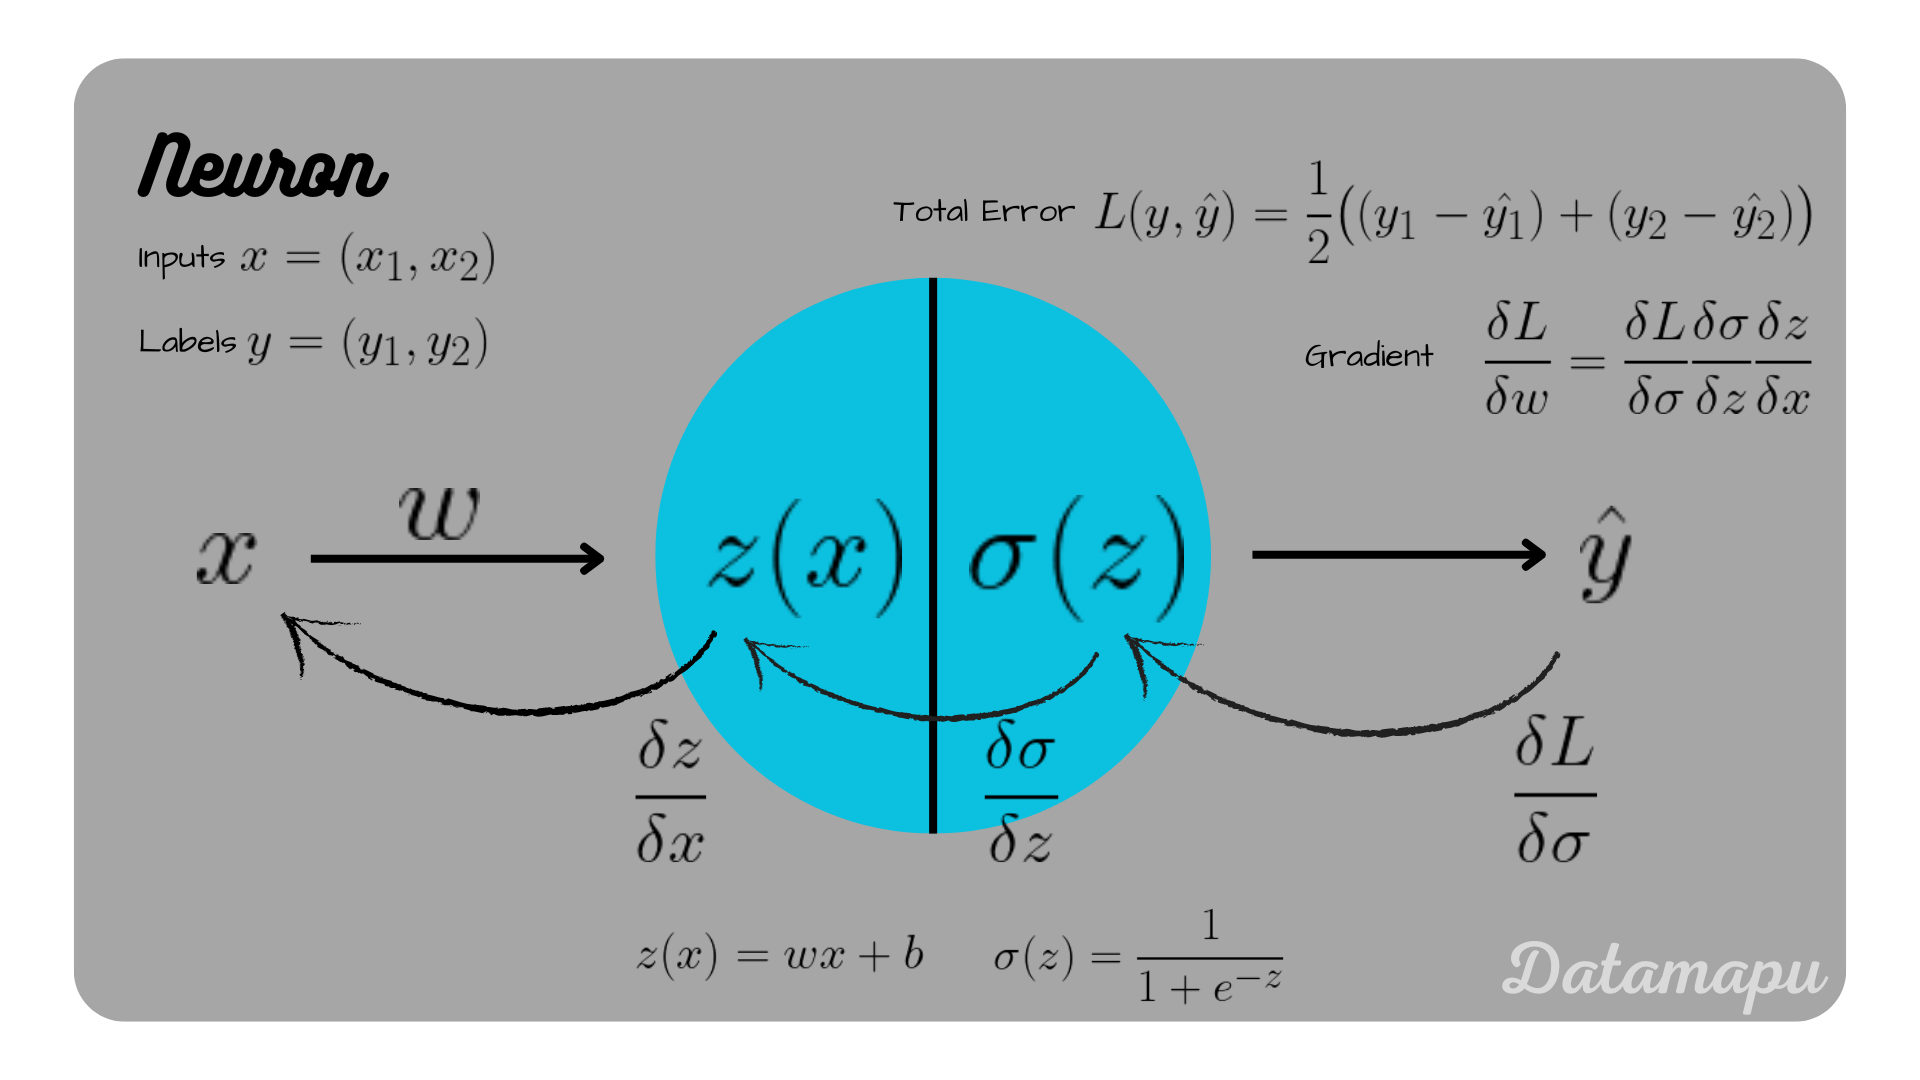
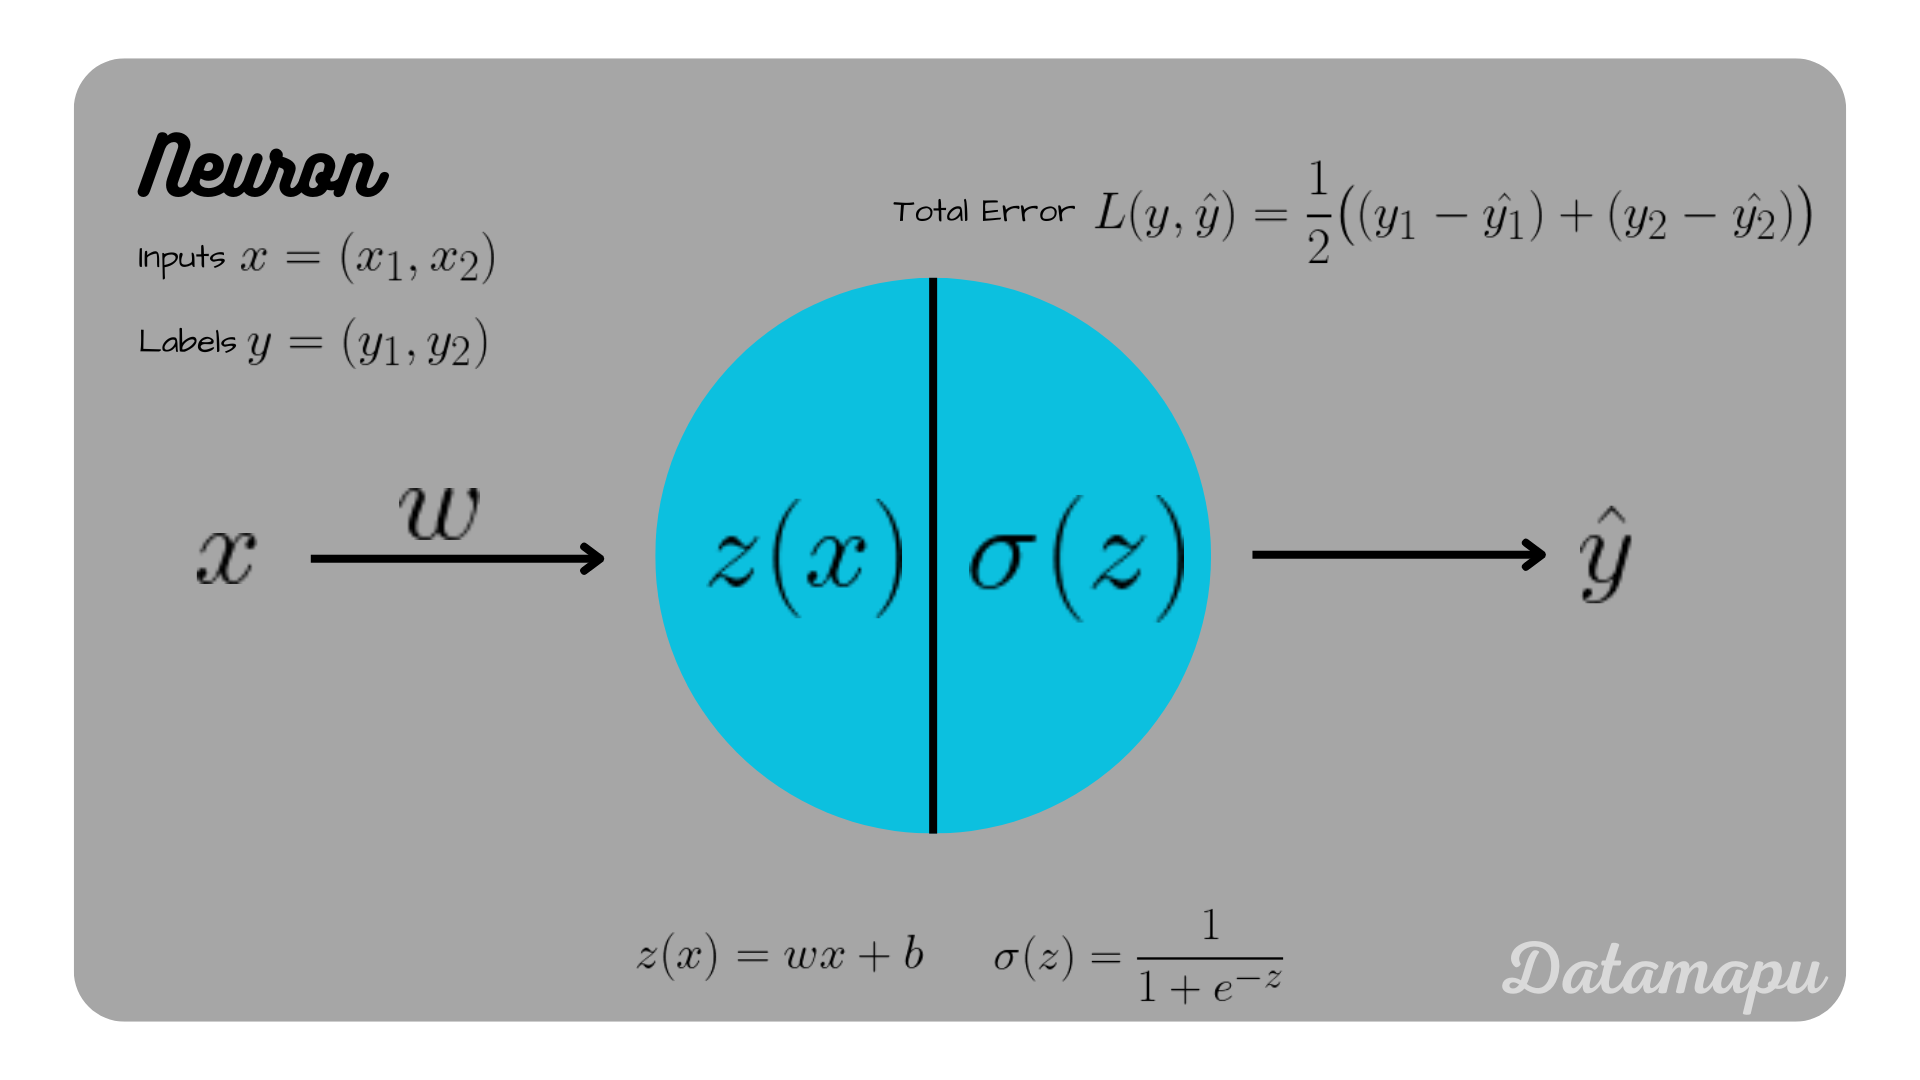
backprop

diff --git a/public/posts/ml_concepts/backpropagation/index.html b/public/posts/ml_concepts/backpropagation/index.html
@@ -40,7 +40,7 @@
 <meta itemprop="name" content="Backpropagation - Step by Step">
 <meta itemprop="description" content="Introduction A neural network consists of a set of parameters - the weights and biases - that define the outcome of the network, that is the predictions. When training a neural network we aim to adjust these weights and biases such that the predictions improve. In order to achieve that Backpropagation is used. In this post we discuss how backpropagation works, and explain it in detail for different examples. We additionally show the general formulation, but without going into details."><meta itemprop="datePublished" content="2024-03-20T22:49:06-03:00" />
 <meta itemprop="dateModified" content="2024-03-20T22:49:06-03:00" />
-<meta itemprop="wordCount" content="684"><meta itemprop="image" content="http://localhost:1313/images/backpropagation/" />
+<meta itemprop="wordCount" content="694"><meta itemprop="image" content="http://localhost:1313/images/backpropagation/" />
 <meta itemprop="keywords" content="Data Science,Machine Learning,Artificial Intelligence," /><meta name="twitter:card" content="summary_large_image" />
 <meta name="twitter:image" content="http://localhost:1313/images/backpropagation/" /><meta name="twitter:title" content="Backpropagation - Step by Step"/>
 <meta name="twitter:description" content="Introduction A neural network consists of a set of parameters - the weights and biases - that define the outcome of the network, that is the predictions. When training a neural network we aim to adjust these weights and biases such that the predictions improve. In order to achieve that Backpropagation is used. In this post we discuss how backpropagation works, and explain it in detail for different examples. We additionally show the general formulation, but without going into details."/>
@@ -198,7 +198,7 @@ MathJax = {
       
       
         <span class="f6 mv4 dib tracked"> - 4 minutes read </span>
-        <span class="f6 mv4 dib tracked"> - 684 words </span>
+        <span class="f6 mv4 dib tracked"> - 694 words </span>
       
     </header>
     <div class="nested-copy-line-height lh-copy serif f4 nested-links mid-gray pr4-l w-two-thirds-l"><h2 id="introduction">Introduction</h2>
@@ -220,13 +220,15 @@ $$y_1 = 1.5, y_2 = 2$$</p>
 <h2 id="example-1-neuron">Example: 1 Neuron</h2>
 <p>To illustrate how backpropagation works, we start with the most simple neural network, which only constists of one single neuron.</p>
 <p><img src="/images/backpropagation/one_neuron.png" alt="one_neuron">
-<em>Illustration of Backpropagation in a Neural Network consisting of a single Neuron.</em></p>
+<em>Illustration of a Neural Network consisting of a single Neuron.</em></p>
 <p>For the following calculations, we assume the initial weight to be $w = 0.3$ and the initial bias to be $b = 0.1$. Further the learning rate is set to$\alpha = 0.1$. This values are chosen arbitrary for illustration purposes.</p>
 <p>We can calculate the forward pass through this network as</p>
 <p>$$\hat{y} = \sigma(wx + b),$$
 $$\hat{y} = \frac{1}{1 + e^{-(wx+b)}}$$.</p>
 <p>Using the dataset defined above, we get for $x_1 = 0.5$</p>
 <p>$$\hat{y}_1 = \frac{1}{1 + e^{-0.3\cdot 0.5 - 0.1}} = \frac{1}{1 + e^{-0.05}} = \frac{1}{1 + e^{0.05}} \approx 0.51$$</p>
+<p><img src="/images/backpropagation/one_neuron_back.png" alt="one_neuron">
+<em>Illustration of Backpropagation in a Neural Network consisting of a single Neuron.</em></p>
 <h2 id="example-2-neurons">Example: 2 Neurons</h2>
 <ul>
 <li>in a row</li>

diff --git a/content/posts/ml_concepts/backpropagation.md b/content/posts/ml_concepts/backpropagation.md
@@ -44,7 +44,7 @@ with $y = (y_1, y_2)$ the labels and $\hat{y} = (\hat{y}_1, \hat{y}_2)$ the pred
 To illustrate how backpropagation works, we start with the most simple neural network, which only constists of one single neuron. 
 
 ![one_neuron](/images/backpropagation/one_neuron.png)
-*Illustration of Backpropagation in a Neural Network consisting of a single Neuron.*
+*Illustration of a Neural Network consisting of a single Neuron.*
 
 For the following calculations, we assume the initial weight to be $w = 0.3$ and the initial bias to be $b = 0.1$. Further the learning rate is set to$\alpha = 0.1$. This values are chosen arbitrary for illustration purposes.
 
@@ -57,6 +57,8 @@ Using the dataset defined above, we get for $x_1 = 0.5$
 
 $$\hat{y}_1 = \frac{1}{1 + e^{-0.3\cdot 0.5 - 0.1}} = \frac{1}{1 + e^{-0.05}} = \frac{1}{1 + e^{0.05}} \approx 0.51$$
 
+![one_neuron](/images/backpropagation/one_neuron_back.png)
+*Illustration of Backpropagation in a Neural Network consisting of a single Neuron.*
 
 ## Example: 2 Neurons
 
